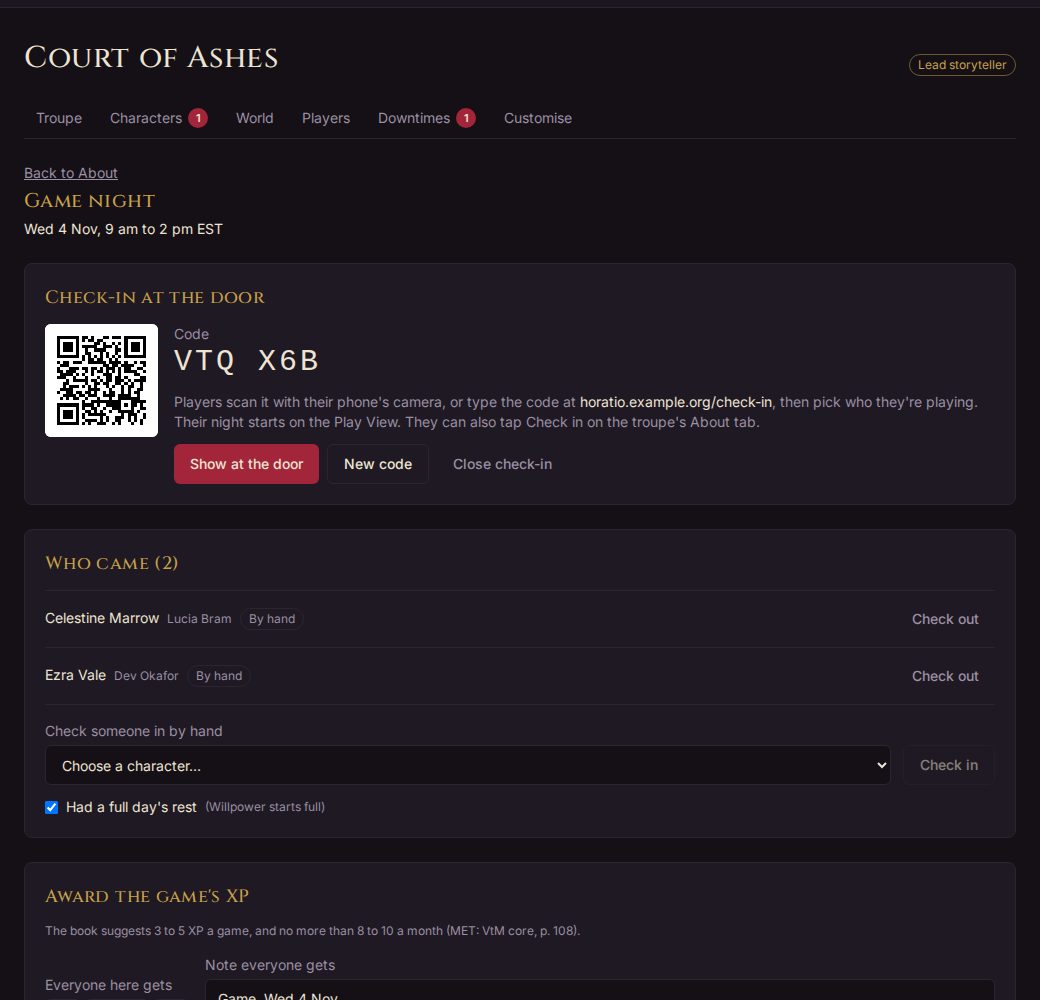
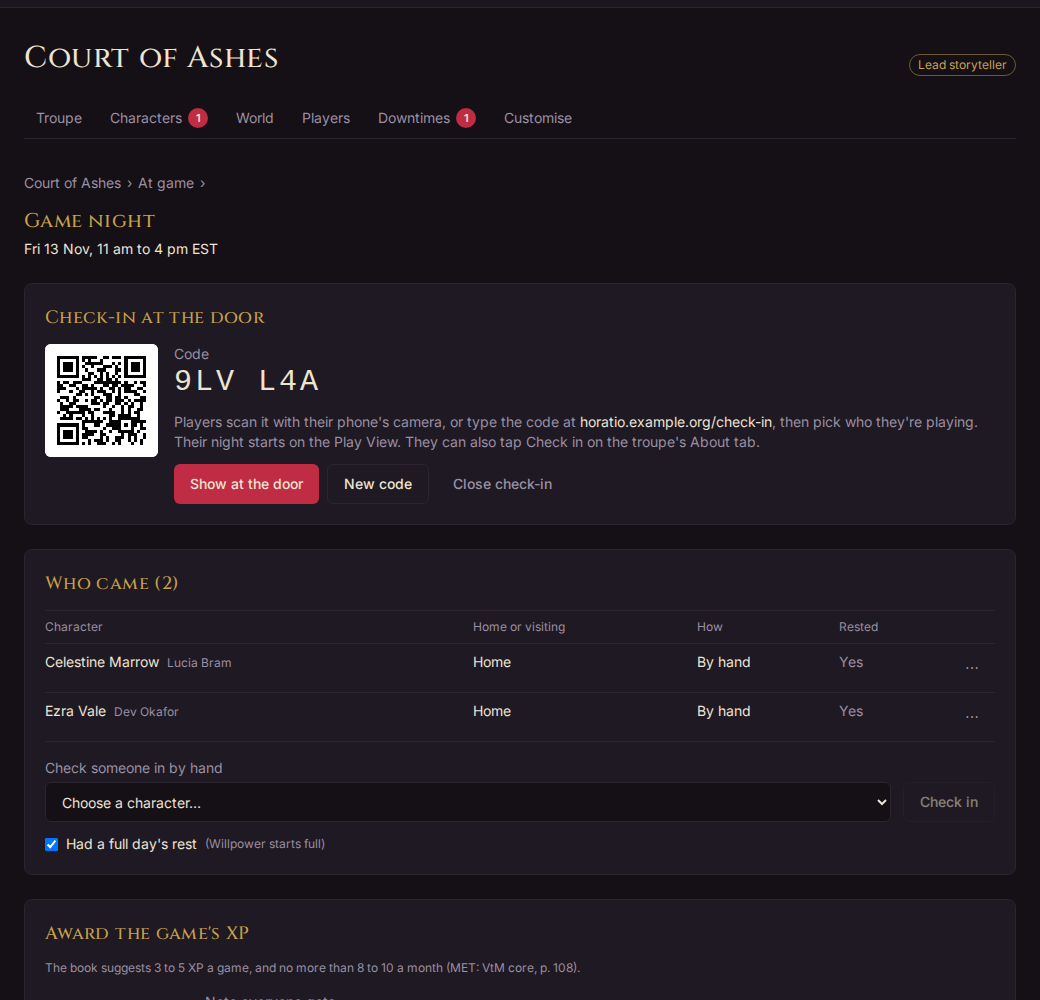
feat: a breadcrumb back to the troupe and At game on scenes and game nights
The Scenes page, each scene and a game night now show one quiet line at the
top, "‹Troupe› › At game ›" (and "› Scenes" on a scene), with each part a link
back. It replaces the scenes' "← troupe" and "← Scenes of …" links and the
game night's "Back to About". One Breadcrumb component in components/ serves
all three. The game night also names itself in the browser tab's title.

Closes #777

Claude-Session: https://claude.ai/code/session_01R6r1N6U6igvrt9d8tNfWfT

diff --git a/frontend/src/pages/troupe/GameNight.tsx b/frontend/src/pages/troupe/GameNight.tsx
@@ -1,15 +1,17 @@
 import { useQuery } from "@tanstack/react-query";
-import { useState, type ReactNode } from "react";
+import { useRef, useState, type ReactNode } from "react";
 import { Link, useParams } from "react-router";
 import { api, unwrap } from "../../api/client";
 import type { Attendee, GameNight, XpLine } from "../../api/types";
 import { ActionMenu, MenuItem, MenuLink } from "../../components/ActionMenu";
+import { atGameCrumbs, Breadcrumb } from "../../components/Breadcrumb";
 import { Dialog } from "../../components/Dialog";
 import { EmptyState } from "../../components/EmptyState";
 import { QrCode } from "../../components/QrCode";
 import { useToast } from "../../components/Toast";
 import { Badge, Button, Card, ErrorText, Field, Input, Loading, Select } from "../../components/ui";
 import { useDates } from "../../dates";
+import { useTitle } from "../../title";
 import { useAction } from "../../hooks";
 import { attendeeStatus, checkInUrl, names, spacedCode } from "./checkin";
 import { BOOK_MONTHLY, figureFor, NO_CHOICE, signed, usesLeft, type Choice } from "./gameXp";
@@ -25,20 +27,28 @@ import { Stepper } from "./XpAwardsTab";
 export function GameNightPage({ troupeId }: { troupeId: string }) {
   const { gameId = "" } = useParams();
   const dates = useDates();
+  // The troupe page's own query, for the breadcrumb's name: already loaded.
+  const troupe = useQuery({
+    queryKey: ["troupe", troupeId],
+    queryFn: () => unwrap(api.GET("/api/troupes/{troupe_id}", { params: { path: { troupe_id: troupeId } } })),
+  });
+  const named = useRef<HTMLHeadingElement>(null);
   const night = useQuery({
     queryKey: ["game-night", gameId],
     queryFn: () => unwrap(api.GET("/api/troupes/{troupe_id}/games/{game_id}/night", { params: { path: { troupe_id: troupeId, game_id: gameId } } })),
   });
+  // Named from its heading once it's drawn, so the part sits after the troupe's.
+  useTitle(night.data ? "Game night" : null, named);
   if (night.isPending) return <Loading />;
   if (night.error) return <ErrorText error={night.error} />;
   const n = night.data;
   return (
     <div className="flex flex-col gap-6">
       <div className="flex flex-col gap-1">
-        <Link to={`/troupes/${troupeId}`} className="self-start text-sm text-mist underline hover:text-parchment">
-          Back to About
-        </Link>
-        <h2 className="font-display text-xl text-gold">Game night</h2>
+        <Breadcrumb crumbs={atGameCrumbs(troupeId, troupe.data?.name)} />
+        <h2 ref={named} className="font-display text-xl text-gold">
+          Game night
+        </h2>
         <time dateTime={n.starts_at} className="text-sm text-parchment">
           {dates.game(n.starts_at, n.ends_at)}
         </time>

diff --git a/frontend/e2e/scenes.spec.ts b/frontend/e2e/scenes.spec.ts
@@ -311,7 +311,7 @@ test("two storytellers share a troupe's named scenes: each pins, taps and sees t
   await s.goto(`/play/troupes/${troupeId}/scenes`);
   await expect(s.getByText("You have no scenes in this troupe yet.")).toBeVisible();
   await s.getByRole("button", { name: "All" }).click();
-  await expect(s.getByRole("listitem")).toHaveCount(3);
+  await expect(s.getByRole("main").getByRole("listitem")).toHaveCount(3);
   const ambush = s.getByRole("listitem", { name: "Warehouse ambush" });
   await expect(ambush).toContainText("By named-lead · 1 character");
   // Not theirs to change.
@@ -348,7 +348,14 @@ test("two storytellers share a troupe's named scenes: each pins, taps and sees t
   await p.getByLabel("Name of the scene").fill("Elysium, gallery");
   await p.getByRole("button", { name: "Save", exact: true }).click();
   await expect(p.getByRole("heading", { name: "Elysium, gallery", exact: true })).toBeVisible();
-  await p.getByRole("link", { name: /^← Scenes/ }).click();
+  // A breadcrumb leads back up: the troupe, its At game tab, then its scenes (#777).
+  const crumbs = p.getByRole("navigation", { name: "Breadcrumb" });
+  await expect(crumbs.getByRole("link")).toHaveText([troupeName, "At game", "Scenes"]);
+  await expect(crumbs.getByRole("link", { name: "At game" })).toHaveAttribute("href", `/troupes/${troupeId}/play`);
+  await crumbs.getByRole("link", { name: "Scenes" }).click();
+  await expect(p.getByRole("heading", { name: "Scenes", exact: true })).toBeVisible();
+  await expect(crumbs.getByRole("link")).toHaveText([troupeName, "At game"]);
+  await expect(crumbs.getByRole("link", { name: troupeName })).toHaveAttribute("href", `/troupes/${troupeId}`);
   const doomed = p.getByRole("listitem", { name: "Warehouse ambush" });
   await doomed.getByRole("button", { name: "Remove Warehouse ambush" }).click();
   await doomed.getByRole("button", { name: "Remove the scene" }).click();

diff --git a/frontend/src/pages/play/ScenePage.tsx b/frontend/src/pages/play/ScenePage.tsx
@@ -3,6 +3,7 @@ import { useCallback, useEffect, useState, type ReactNode } from "react";
 import { Link, useParams } from "react-router";
 import { api, unwrap } from "../../api/client";
 import type { PlayReference, RosterEntry, SceneOut, TestPool } from "../../api/types";
+import { atGameCrumbs, Breadcrumb } from "../../components/Breadcrumb";
 import { LinesVeilsNote } from "../../components/LinesVeils";
 import { useClanName } from "../../components/ClanNames";
 import { Button, ErrorText, Input, Loading } from "../../components/ui";
@@ -106,10 +107,8 @@ export function ScenePage() {
   return (
     <div className="min-h-screen bg-night pb-16 text-parchment">
       <header className="sticky top-0 z-10 border-b border-ash bg-night/95 backdrop-blur">
-        <div className="mx-auto flex max-w-6xl items-center justify-between gap-3 px-4 py-2">
-          <Link to={list} className="inline-flex min-h-10 items-center text-sm text-mist hover:text-parchment">
-            ← Scenes{troupe.data ? ` of ${troupe.data.name}` : ""}
-          </Link>
+        <div className="mx-auto flex max-w-6xl items-center justify-between gap-3 px-4 py-1">
+          <Breadcrumb crumbs={[...atGameCrumbs(troupeId, troupe.data?.name), { label: "Scenes", to: list }]} />
           {awake && (
             <span className="rounded-full border border-ash px-2.5 py-0.5 text-xs whitespace-nowrap text-mist" title="Kept on while the Scene view is open, as your settings ask.">
               ☀ Screen awake

diff --git a/frontend/src/components/Breadcrumb.tsx b/frontend/src/components/Breadcrumb.tsx
@@ -1,0 +1,34 @@
+import { Link } from "react-router";
+
+export type Crumb = { label: string; to: string };
+
+/**
+ * Where a page sits, as one quiet line of links back up (#777): "‹Troupe› › At
+ * game ›" above a scene or a game night, the page's own heading following it.
+ * Only the way back: the page names itself, so this adds nothing to the tab's
+ * title.
+ */
+export function Breadcrumb({ crumbs, className = "" }: { crumbs: Crumb[]; className?: string }) {
+  return (
+    <nav aria-label="Breadcrumb" className={`min-w-0 ${className}`}>
+      <ol className="flex flex-wrap items-center gap-x-1.5 text-sm text-mist">
+        {crumbs.map((c) => (
+          <li key={c.to} className="flex min-w-0 items-center gap-x-1.5">
+            <Link to={c.to} className="inline-flex min-h-10 min-w-0 items-center hover:text-parchment">
+              <span className="truncate">{c.label}</span>
+            </Link>
+            <span aria-hidden="true">›</span>
+          </li>
+        ))}
+      </ol>
+    </nav>
+  );
+}
+
+/** The way back from a troupe's scenes and game nights: the troupe, then its At game tab. */
+export function atGameCrumbs(troupeId: string, troupeName: string | undefined): Crumb[] {
+  return [
+    { label: troupeName ?? "Troupe", to: `/troupes/${troupeId}` },
+    { label: "At game", to: `/troupes/${troupeId}/play` },
+  ];
+}

diff --git a/frontend/src/pages/play/ScenesPage.tsx b/frontend/src/pages/play/ScenesPage.tsx
@@ -3,6 +3,7 @@ import { useState } from "react";
 import { Link, useNavigate, useParams } from "react-router";
 import { api, unwrap } from "../../api/client";
 import type { SceneOut, SceneSummary } from "../../api/types";
+import { atGameCrumbs, Breadcrumb } from "../../components/Breadcrumb";
 import { DateInput } from "../../components/DateInput";
 import { Button, Card, Empty, ErrorText, Field, Input, Loading, Notice } from "../../components/ui";
 import { useDates } from "../../dates";
@@ -77,10 +78,8 @@ export function ScenesPage() {
   return (
     <div className="min-h-screen bg-night pb-16 text-parchment">
       <header className="sticky top-0 z-10 border-b border-ash bg-night/95 backdrop-blur">
-        <div className="mx-auto flex max-w-3xl items-center justify-between gap-3 px-4 py-2">
-          <Link to={`/troupes/${troupeId}/play`} className="inline-flex min-h-10 items-center text-sm text-mist hover:text-parchment">
-            ← {troupe.data?.name ?? "Back"}
-          </Link>
+        <div className="mx-auto flex max-w-3xl flex-wrap items-center gap-x-1.5 px-4 py-1">
+          <Breadcrumb crumbs={atGameCrumbs(troupeId, troupe.data?.name)} />
           <h1 className="text-lg">Scenes</h1>
         </div>
         <ScenesStrip troupeId={troupeId} />

diff --git a/frontend/src/components/Breadcrumb.test.tsx b/frontend/src/components/Breadcrumb.test.tsx
@@ -1,0 +1,31 @@
+import { cleanup, render, screen, within } from "@testing-library/react";
+import { MemoryRouter } from "react-router";
+import { afterEach, describe, expect, it } from "vitest";
+import { atGameCrumbs, Breadcrumb } from "./Breadcrumb";
+
+afterEach(cleanup);
+
+describe("Breadcrumb", () => {
+  it("links back to the troupe and its At game tab, in order", () => {
+    render(
+      <MemoryRouter>
+        <Breadcrumb crumbs={[...atGameCrumbs("t1", "The Night Court"), { label: "Scenes", to: "/play/troupes/t1/scenes" }]} />
+      </MemoryRouter>,
+    );
+    const links = within(screen.getByRole("navigation", { name: "Breadcrumb" })).getAllByRole("link");
+    expect(links.map((l) => [l.textContent, l.getAttribute("href")])).toEqual([
+      ["The Night Court", "/troupes/t1"],
+      ["At game", "/troupes/t1/play"],
+      ["Scenes", "/play/troupes/t1/scenes"],
+    ]);
+  });
+
+  it("names the troupe plainly until its name has loaded", () => {
+    render(
+      <MemoryRouter>
+        <Breadcrumb crumbs={atGameCrumbs("t1", undefined)} />
+      </MemoryRouter>,
+    );
+    expect(screen.getByRole("link", { name: "Troupe" }).getAttribute("href")).toBe("/troupes/t1");
+  });
+});

diff --git a/frontend/e2e/troupes.spec.ts b/frontend/e2e/troupes.spec.ts
@@ -2023,6 +2023,11 @@ test("players check in at the door and land in their Play View, and staff award 
   await expect(leadGame.getByText("Nobody checked in yet")).toBeVisible();
   await leadGame.getByRole("link", { name: "Check-in and attendance" }).click();
   await expect(l.getByRole("heading", { name: "Game night" })).toBeVisible();
+  await expect(l).toHaveTitle(/^Game night · /);
+  // A breadcrumb leads back to the troupe and its At game tab (#777).
+  const crumbs = l.getByRole("navigation", { name: "Breadcrumb" });
+  await expect(crumbs.getByRole("link")).toHaveText([troupeName, "At game"]);
+  await expect(crumbs.getByRole("link", { name: "At game" })).toHaveAttribute("href", `/troupes/${troupeId}/play`);
   await expect(l.getByText("Nobody has checked in yet.")).toBeVisible();
   await l.getByRole("button", { name: "Open check-in" }).click();
   await expect(l.getByText("Check-in is open.")).toBeVisible();

diff --git a/docs/manual/running-a-troupe.md b/docs/manual/running-a-troupe.md
@@ -1097,7 +1097,7 @@ On the About tab, each game to come asks **Coming**, **Maybe** or **Not coming**
 
 ![A game's night: check-in at the door with its code and QR code, and who came.](images/running-a-troupe/game-night.png)
 
-On the About tab, storytellers and assistant storytellers choose **Check-in and attendance** under a game to open its night. Check-in can open from 12 hours before the game starts.
+On the About tab, storytellers and assistant storytellers choose **Check-in and attendance** under a game to open its night. A line at its top leads back to the troupe and its **At game** tab. Check-in can open from 12 hours before the game starts.
 
 1. Choose **Open check-in**. The door gets a code and a QR code.
 2. Choose **Show at the door** for a full-screen code to hold up. Players scan it with their phone's camera, or type the code on the check-in page, then pick who they're playing. They can also tap **Check in** on the troupe's About tab.
@@ -1134,6 +1134,7 @@ If an award takes a character past the monthly figure, Horatio warns you (or, wi
 
 **Open the scenes** on the At game tab puts several characters on one page, side by side, to run a scene: tap Blood, Willpower, health and Beast traits for each, with Undo and the log. Stock NPCs show their pool and resource to tap.
 
+- A line at the top of the Scenes page and of each scene leads back: the troupe, its **At game** tab, then **Scenes**.
 - Make a scene with **Name of a new scene**, then find characters and NPCs by name to put them in it.
 - Scenes are kept for the troupe: every storyteller and assistant storyteller sees them all and can put characters in any.
 - A scene's maker, or the lead storyteller, renames or removes it. Removing a scene leaves its characters as they are.
